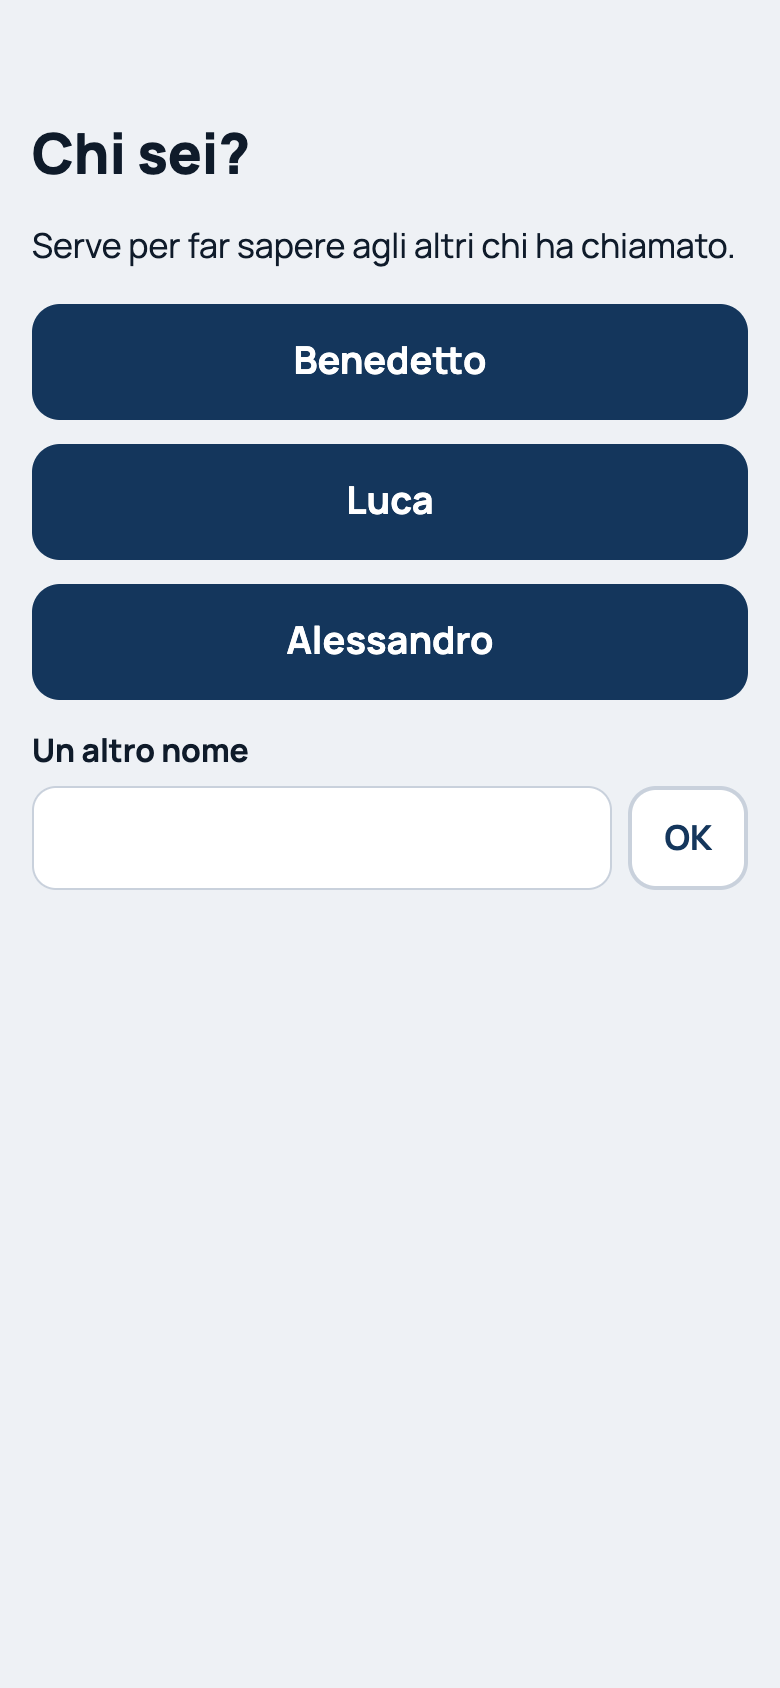
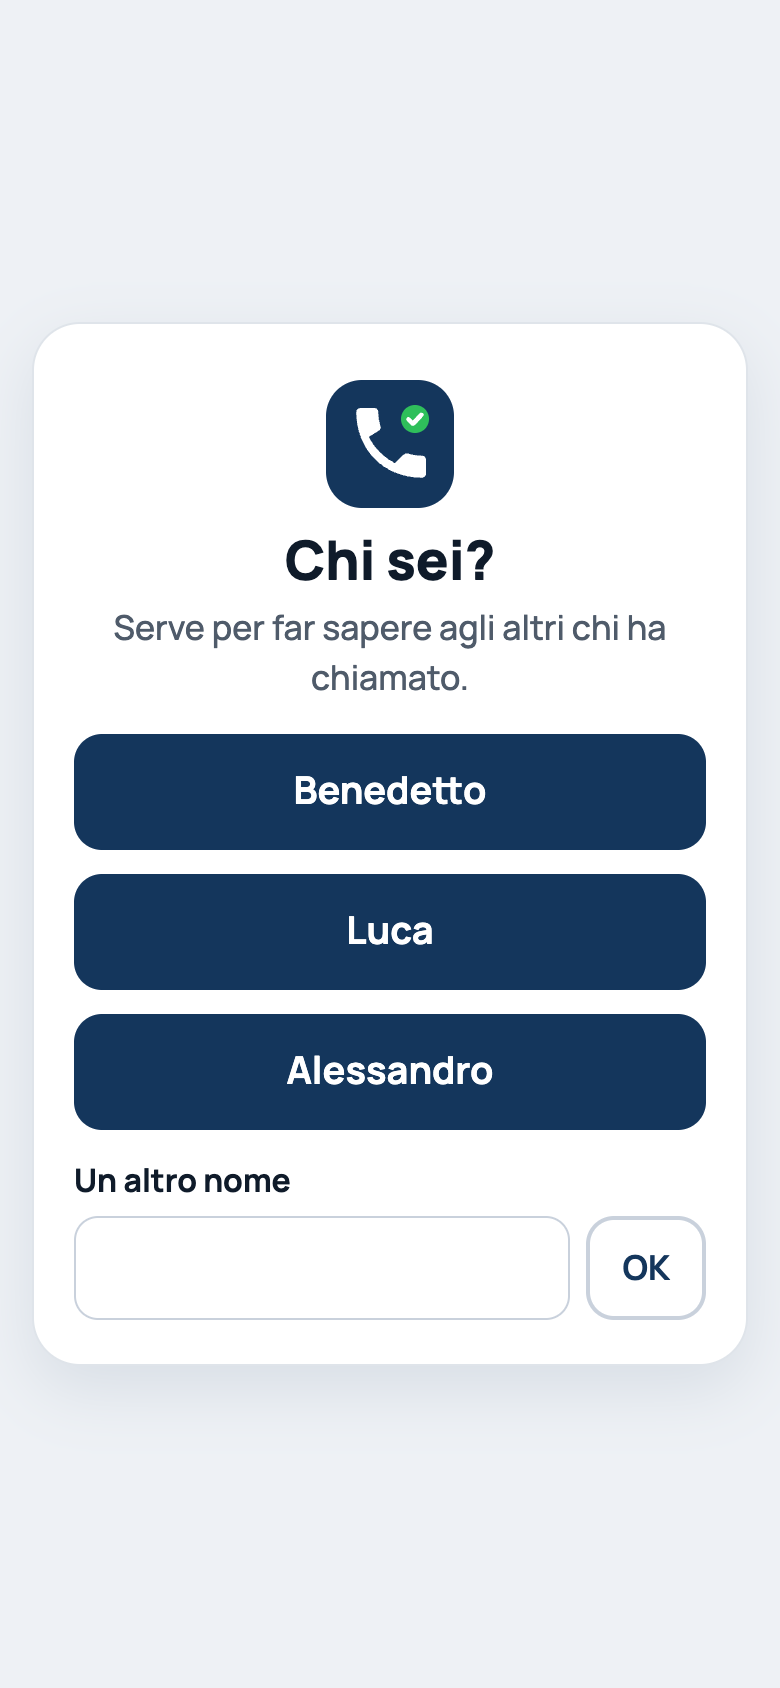
Pagina di accesso rifatta
Scheda centrata con logo, campo password a tutta larghezza con "Mostra" interno,
aiuto per la password dimenticata; stessa veste per "Chi sei?" e account non attivo.

diff --git a/js/app.js b/js/app.js
@@ -130,24 +130,28 @@ function Accesso() {
     setAttesa(false);
   }
 
-  return html`<main class="accesso">
-    <img src="icone/icona.svg" alt="" class="logo" width="72" height="72" />
+  return html`<main class="accesso"><div class="accesso-scheda">
+    <img src="icone/icona.svg" alt="" class="logo" width="76" height="76" />
     <h1>Chiamate Aedify</h1>
-    <form onSubmit=${invia} class="modulo">
+    <p class="accesso-sotto">Entra con la tua email e password</p>
+    <form onSubmit=${invia} class="modulo" novalidate>
       <label>Email
-        <input type="email" name="email" autocomplete="username" inputmode="email" value=${email} onInput=${e => setEmail(e.target.value)} />
+        <input type="email" name="email" autocomplete="username" inputmode="email" autocapitalize="off" spellcheck="false"
+          placeholder="nome@esempio.it" value=${email} onInput=${e => setEmail(e.target.value)} />
       </label>
       <label>Password
-        <div class="con-pulsante">
-          <input type=${vedi ? 'text' : 'password'} name="password" autocomplete="current-password" value=${password} onInput=${e => setPassword(e.target.value)} />
-          <button type="button" class="pulsante secondario" onClick=${() => setVedi(!vedi)}>${vedi ? 'Nascondi' : 'Mostra'}</button>
+        <div class="campo-password">
+          <input type=${vedi ? 'text' : 'password'} name="password" autocomplete="current-password" aria-label="Password"
+            value=${password} onInput=${e => setPassword(e.target.value)} />
+          <button type="button" class="mostra" onClick=${() => setVedi(!vedi)}>${vedi ? 'Nascondi' : 'Mostra'}</button>
         </div>
       </label>
       <label class="spunta"><input type="checkbox" checked=${resta} onChange=${e => setResta(e.target.checked)} /> Resta collegato</label>
-      ${problema && html`<p class="banner banner-errore">${problema}</p>`}
-      <button class="pulsante primario grande" disabled=${attesa}>${attesa ? 'Un attimo…' : 'Entra'}</button>
+      ${problema && html`<p class="banner banner-errore" role="alert">${problema}</p>`}
+      <button class="pulsante primario grande entra" disabled=${attesa}>${attesa ? 'Un attimo…' : 'Entra'}</button>
     </form>
-  </main>`;
+    <p class="accesso-piede">Password dimenticata? Chiedila a Benedetto.</p>
+  </div></main>`;
 }
 
 export function SceltaNome({ dopo }) {
@@ -156,9 +160,10 @@ export function SceltaNome({ dopo }) {
     if (!nome.trim()) return;
     try { await impostaNome(nome.trim()); dopo?.(); } catch (e) { errore(e); }
   }
-  return html`<main class="accesso">
+  return html`<main class="accesso"><div class="accesso-scheda">
+    <img src="icone/icona.svg" alt="" class="logo" width="64" height="64" />
     <h1>Chi sei?</h1>
-    <p>Serve per far sapere agli altri chi ha chiamato.</p>
+    <p class="accesso-sotto">Serve per far sapere agli altri chi ha chiamato.</p>
     <div class="colonna">
       ${NOMI.map(n => html`<button class="pulsante primario grande" onClick=${() => scegli(n)}>${n}</button>`)}
     </div>
@@ -168,15 +173,16 @@ export function SceltaNome({ dopo }) {
         <button class="pulsante secondario" onClick=${() => scegli(altro)}>OK</button>
       </div>
     </label>
-  </main>`;
+  </div></main>`;
 }
 
 function NonAbilitato() {
-  return html`<main class="accesso">
+  return html`<main class="accesso"><div class="accesso-scheda">
+    <img src="icone/icona.svg" alt="" class="logo" width="64" height="64" />
     <h1>Account non ancora attivo</h1>
-    <p>Sei entrato, ma il tuo account non è ancora abilitato a vedere i contatti. Chiedi a Benedetto di abilitarlo (passo 3 del README), poi riapri l'app.</p>
-    <button class="pulsante secondario grande" onClick=${esci}>Esci</button>
-  </main>`;
+    <p class="accesso-sotto">Sei entrato, ma il tuo account non è ancora abilitato a vedere i contatti. Chiedi a Benedetto di abilitarlo, poi riapri l'app.</p>
+    <button class="pulsante secondario grande largo" onClick=${esci}>Esci</button>
+  </div></main>`;
 }
 
 // ---- Barra in basso ----
@@ -233,7 +239,7 @@ function App() {
   }, []);
 
   let contenuto;
-  if (!s.pronto) contenuto = html`<main class="accesso"><p>Un attimo…</p></main>`;
+  if (!s.pronto) contenuto = html`<main class="accesso"><p class="accesso-sotto">Un attimo…</p></main>`;
   else if (!s.utente) contenuto = html`<${Accesso} />`;
   else if (!s.nome) contenuto = html`<${SceltaNome} />`;
   else if (!s.membro) contenuto = html`<${NonAbilitato} />`;

diff --git a/stile.css b/stile.css
@@ -235,10 +235,28 @@ table.numeri { width: 100%; border-collapse: collapse; background: var(--carta);
 .numeri tr.totale { background: #f3f5f8; }
 
 /* ---- Accesso ---- */
-.accesso { padding-top: 48px; }
-.accesso h1 { font-size: 28px; font-weight: 800; margin: 12px 0 8px; }
-.accesso .logo { border-radius: 18px; }
-.modulo .pulsante { width: 100%; margin-top: 20px; }
+.accesso {
+  min-height: 100vh; min-height: 100dvh;
+  display: flex; flex-direction: column; align-items: center; justify-content: center;
+  padding: 24px 16px calc(24px + var(--sicuro));
+}
+.accesso-scheda {
+  width: 100%; max-width: 420px; padding: 28px 20px 22px;
+  background: var(--carta); border-radius: 24px; border: 1.5px solid #dfe4ea;
+  box-shadow: 0 12px 32px rgba(20, 54, 92, .10);
+}
+.accesso .logo { display: block; margin: 0 auto 10px; border-radius: 18px; }
+.accesso h1 { font-size: 27px; font-weight: 800; text-align: center; margin: 0; }
+.accesso-sotto { margin: 6px 0 4px; text-align: center; color: var(--tenue); font-weight: 500; }
+.accesso-piede { margin: 18px 0 0; text-align: center; color: var(--tenue); font-size: 15px; font-weight: 500; }
+.modulo .entra { width: 100%; margin-top: 18px; }
+.campo-password { position: relative; }
+.campo-password input { padding-right: 104px; }
+.campo-password .mostra {
+  position: absolute; right: 6px; top: calc(50% + 3px); transform: translateY(-50%);
+  min-height: 44px; min-width: 88px; padding: 0 12px; border: 0; border-radius: 10px;
+  background: var(--blu-chiaro); color: var(--blu); font-weight: 700; font-size: 15px; cursor: pointer;
+}
 
 /* ---- Importa ---- */
 .passi { display: flex; gap: 6px; margin: 4px 0 14px; }
